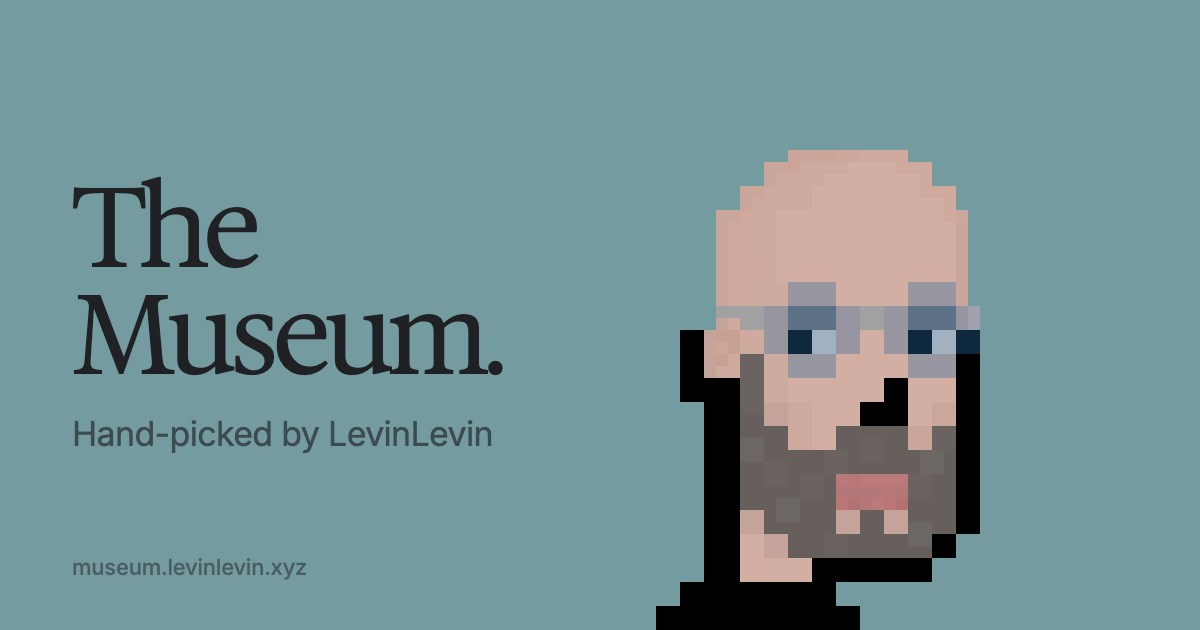
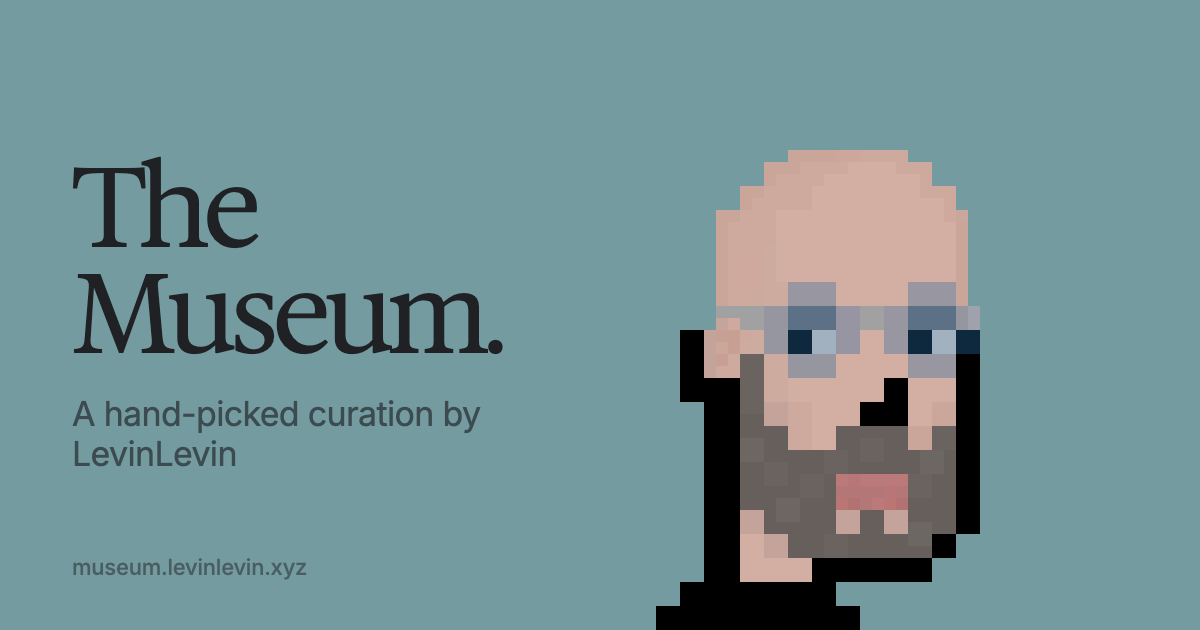
Link preview: "A hand-picked curation by LevinLevin"

Changed region(s): [[0.0617, 0.2413, 0.4317, 0.6032], [0.0617, 0.6333, 0.4008, 0.754]]

diff --git a/index.html b/index.html
@@ -4,19 +4,19 @@
   <meta charset="utf-8">
   <meta name="viewport" content="width=device-width, initial-scale=1, viewport-fit=cover">
   <title>LevinLevin — The Museum</title>
-  <meta name="description" content="A hand-picked collection by LevinLevin.">
+  <meta name="description" content="A hand-picked curation by LevinLevin.">
   <meta name="theme-color" content="#ffffff">
   <meta http-equiv="Content-Security-Policy" content="default-src 'self'; script-src 'self'; style-src 'self'; img-src 'self' data:; media-src 'self'; font-src 'self'; connect-src 'self'; object-src 'none'; base-uri 'none'; form-action 'none'; upgrade-insecure-requests">
   <meta name="referrer" content="no-referrer">
 
   <meta property="og:type" content="website">
   <meta property="og:title" content="LevinLevin — The Museum">
-  <meta property="og:description" content="A hand-picked collection by LevinLevin.">
-  <meta property="og:image" content="https://museum.levinlevin.xyz/og-card.png">
+  <meta property="og:description" content="A hand-picked curation by LevinLevin.">
+  <meta property="og:image" content="https://museum.levinlevin.xyz/og-card.png?v=2">
   <meta property="og:image:width" content="1200">
   <meta property="og:image:height" content="630">
   <meta property="og:image:alt" content="The Museum: LevinLevin's punk">
-  <meta name="twitter:image" content="https://museum.levinlevin.xyz/og-card.png">
+  <meta name="twitter:image" content="https://museum.levinlevin.xyz/og-card.png?v=2">
   <meta property="og:url" content="https://museum.levinlevin.xyz/">
   <link rel="canonical" href="https://museum.levinlevin.xyz/">
   <meta name="twitter:card" content="summary_large_image">

diff --git a/w/ce49d61bb631.html b/w/ce49d61bb631.html
@@ -5,10 +5,10 @@
   <meta name="viewport" content="width=device-width, initial-scale=1">
   <title>PERQUÉ HA PASADO IL MIO AMICO® by PAMILO CEIRONE® — The Museum</title>
   <meta http-equiv="Content-Security-Policy" content="default-src 'none'; img-src 'self'; style-src 'none'; base-uri 'none'; form-action 'none'">
-  <meta name="description" content="PERQUÉ HA PASADO IL MIO AMICO® by PAMILO CEIRONE®, in LevinLevin's hand-picked collection.">
+  <meta name="description" content="PERQUÉ HA PASADO IL MIO AMICO® by PAMILO CEIRONE®, in a hand-picked curation by LevinLevin.">
   <meta property="og:type" content="website">
   <meta property="og:title" content="PERQUÉ HA PASADO IL MIO AMICO® — PAMILO CEIRONE®">
-  <meta property="og:description" content="In LevinLevin's hand-picked collection, The Museum.">
+  <meta property="og:description" content="The Museum: a hand-picked curation by LevinLevin.">
   <meta property="og:url" content="https://museum.levinlevin.xyz/w/ce49d61bb631">
   <meta property="og:image" content="https://museum.levinlevin.xyz/w/ce49d61bb631-503e86a423.jpg">
   <meta property="og:image:width" content="1200">

diff --git a/w/ae8377dcae9b.html b/w/ae8377dcae9b.html
@@ -5,10 +5,10 @@
   <meta name="viewport" content="width=device-width, initial-scale=1">
   <title>The meeting of chance and wonder by Nikita Blanq — The Museum</title>
   <meta http-equiv="Content-Security-Policy" content="default-src 'none'; img-src 'self'; style-src 'none'; base-uri 'none'; form-action 'none'">
-  <meta name="description" content="The meeting of chance and wonder by Nikita Blanq, in LevinLevin's hand-picked collection.">
+  <meta name="description" content="The meeting of chance and wonder by Nikita Blanq, in a hand-picked curation by LevinLevin.">
   <meta property="og:type" content="website">
   <meta property="og:title" content="The meeting of chance and wonder — Nikita Blanq">
-  <meta property="og:description" content="In LevinLevin's hand-picked collection, The Museum.">
+  <meta property="og:description" content="The Museum: a hand-picked curation by LevinLevin.">
   <meta property="og:url" content="https://museum.levinlevin.xyz/w/ae8377dcae9b">
   <meta property="og:image" content="https://museum.levinlevin.xyz/w/ae8377dcae9b-69d3977e8f.jpg">
   <meta property="og:image:width" content="1200">

diff --git a/w/25dff0371e62.html b/w/25dff0371e62.html
@@ -5,10 +5,10 @@
   <meta name="viewport" content="width=device-width, initial-scale=1">
   <title>Attachment to the world by magnetismo, MASKAY — The Museum</title>
   <meta http-equiv="Content-Security-Policy" content="default-src 'none'; img-src 'self'; style-src 'none'; base-uri 'none'; form-action 'none'">
-  <meta name="description" content="Attachment to the world by magnetismo, MASKAY, in LevinLevin's hand-picked collection.">
+  <meta name="description" content="Attachment to the world by magnetismo, MASKAY, in a hand-picked curation by LevinLevin.">
   <meta property="og:type" content="website">
   <meta property="og:title" content="Attachment to the world — magnetismo, MASKAY">
-  <meta property="og:description" content="In LevinLevin's hand-picked collection, The Museum.">
+  <meta property="og:description" content="The Museum: a hand-picked curation by LevinLevin.">
   <meta property="og:url" content="https://museum.levinlevin.xyz/w/25dff0371e62">
   <meta property="og:image" content="https://museum.levinlevin.xyz/w/25dff0371e62-a5dfa1ea1c.jpg">
   <meta property="og:image:width" content="1200">

diff --git a/w/04fdd1fa8b7f.html b/w/04fdd1fa8b7f.html
@@ -5,10 +5,10 @@
   <meta name="viewport" content="width=device-width, initial-scale=1">
   <title>Reterritorialization #115 by stipinpixel — The Museum</title>
   <meta http-equiv="Content-Security-Policy" content="default-src 'none'; img-src 'self'; style-src 'none'; base-uri 'none'; form-action 'none'">
-  <meta name="description" content="Reterritorialization #115 by stipinpixel, in LevinLevin's hand-picked collection.">
+  <meta name="description" content="Reterritorialization #115 by stipinpixel, in a hand-picked curation by LevinLevin.">
   <meta property="og:type" content="website">
   <meta property="og:title" content="Reterritorialization #115 — stipinpixel">
-  <meta property="og:description" content="In LevinLevin's hand-picked collection, The Museum.">
+  <meta property="og:description" content="The Museum: a hand-picked curation by LevinLevin.">
   <meta property="og:url" content="https://museum.levinlevin.xyz/w/04fdd1fa8b7f">
   <meta property="og:image" content="https://museum.levinlevin.xyz/w/04fdd1fa8b7f-b536b8b92c.jpg">
   <meta property="og:image:width" content="1200">

diff --git a/w/69a5e91c1b70.html b/w/69a5e91c1b70.html
@@ -5,10 +5,10 @@
   <meta name="viewport" content="width=device-width, initial-scale=1">
   <title>Reterritorialization #13 by stipinpixel — The Museum</title>
   <meta http-equiv="Content-Security-Policy" content="default-src 'none'; img-src 'self'; style-src 'none'; base-uri 'none'; form-action 'none'">
-  <meta name="description" content="Reterritorialization #13 by stipinpixel, in LevinLevin's hand-picked collection.">
+  <meta name="description" content="Reterritorialization #13 by stipinpixel, in a hand-picked curation by LevinLevin.">
   <meta property="og:type" content="website">
   <meta property="og:title" content="Reterritorialization #13 — stipinpixel">
-  <meta property="og:description" content="In LevinLevin's hand-picked collection, The Museum.">
+  <meta property="og:description" content="The Museum: a hand-picked curation by LevinLevin.">
   <meta property="og:url" content="https://museum.levinlevin.xyz/w/69a5e91c1b70">
   <meta property="og:image" content="https://museum.levinlevin.xyz/w/69a5e91c1b70-ec30304b79.jpg">
   <meta property="og:image:width" content="1200">

diff --git a/w/49862737de27.html b/w/49862737de27.html
@@ -5,10 +5,10 @@
   <meta name="viewport" content="width=device-width, initial-scale=1">
   <title>Hands of A Prophet by Christian Gregor — The Museum</title>
   <meta http-equiv="Content-Security-Policy" content="default-src 'none'; img-src 'self'; style-src 'none'; base-uri 'none'; form-action 'none'">
-  <meta name="description" content="Hands of A Prophet by Christian Gregor, in LevinLevin's hand-picked collection.">
+  <meta name="description" content="Hands of A Prophet by Christian Gregor, in a hand-picked curation by LevinLevin.">
   <meta property="og:type" content="website">
   <meta property="og:title" content="Hands of A Prophet — Christian Gregor">
-  <meta property="og:description" content="In LevinLevin's hand-picked collection, The Museum.">
+  <meta property="og:description" content="The Museum: a hand-picked curation by LevinLevin.">
   <meta property="og:url" content="https://museum.levinlevin.xyz/w/49862737de27">
   <meta property="og:image" content="https://museum.levinlevin.xyz/w/49862737de27-cd7b50d371.jpg">
   <meta property="og:image:width" content="1200">

diff --git a/w/c5e9dfa3d133.html b/w/c5e9dfa3d133.html
@@ -5,10 +5,10 @@
   <meta name="viewport" content="width=device-width, initial-scale=1">
   <title>Reterritorialization #2 by stipinpixel — The Museum</title>
   <meta http-equiv="Content-Security-Policy" content="default-src 'none'; img-src 'self'; style-src 'none'; base-uri 'none'; form-action 'none'">
-  <meta name="description" content="Reterritorialization #2 by stipinpixel, in LevinLevin's hand-picked collection.">
+  <meta name="description" content="Reterritorialization #2 by stipinpixel, in a hand-picked curation by LevinLevin.">
   <meta property="og:type" content="website">
   <meta property="og:title" content="Reterritorialization #2 — stipinpixel">
-  <meta property="og:description" content="In LevinLevin's hand-picked collection, The Museum.">
+  <meta property="og:description" content="The Museum: a hand-picked curation by LevinLevin.">
   <meta property="og:url" content="https://museum.levinlevin.xyz/w/c5e9dfa3d133">
   <meta property="og:image" content="https://museum.levinlevin.xyz/w/c5e9dfa3d133-5a9edccab5.jpg">
   <meta property="og:image:width" content="1200">

diff --git a/w/55d93c923713.html b/w/55d93c923713.html
@@ -5,10 +5,10 @@
   <meta name="viewport" content="width=device-width, initial-scale=1">
   <title>SERVITZIO PLOP!® by PAMILO CEIRONE® — The Museum</title>
   <meta http-equiv="Content-Security-Policy" content="default-src 'none'; img-src 'self'; style-src 'none'; base-uri 'none'; form-action 'none'">
-  <meta name="description" content="SERVITZIO PLOP!® by PAMILO CEIRONE®, in LevinLevin's hand-picked collection.">
+  <meta name="description" content="SERVITZIO PLOP!® by PAMILO CEIRONE®, in a hand-picked curation by LevinLevin.">
   <meta property="og:type" content="website">
   <meta property="og:title" content="SERVITZIO PLOP!® — PAMILO CEIRONE®">
-  <meta property="og:description" content="In LevinLevin's hand-picked collection, The Museum.">
+  <meta property="og:description" content="The Museum: a hand-picked curation by LevinLevin.">
   <meta property="og:url" content="https://museum.levinlevin.xyz/w/55d93c923713">
   <meta property="og:image" content="https://museum.levinlevin.xyz/w/55d93c923713-07678a1234.jpg">
   <meta property="og:image:width" content="1200">

diff --git a/w/1e1facab01cf.html b/w/1e1facab01cf.html
@@ -5,10 +5,10 @@
   <meta name="viewport" content="width=device-width, initial-scale=1">
   <title>Beach Day At the Natives by Artifex — The Museum</title>
   <meta http-equiv="Content-Security-Policy" content="default-src 'none'; img-src 'self'; style-src 'none'; base-uri 'none'; form-action 'none'">
-  <meta name="description" content="Beach Day At the Natives by Artifex, in LevinLevin's hand-picked collection.">
+  <meta name="description" content="Beach Day At the Natives by Artifex, in a hand-picked curation by LevinLevin.">
   <meta property="og:type" content="website">
   <meta property="og:title" content="Beach Day At the Natives — Artifex">
-  <meta property="og:description" content="In LevinLevin's hand-picked collection, The Museum.">
+  <meta property="og:description" content="The Museum: a hand-picked curation by LevinLevin.">
   <meta property="og:url" content="https://museum.levinlevin.xyz/w/1e1facab01cf">
   <meta property="og:image" content="https://museum.levinlevin.xyz/w/1e1facab01cf-98ac2c45d1.jpg">
   <meta property="og:image:width" content="1200">

diff --git a/w/bd508a892d5e.html b/w/bd508a892d5e.html
@@ -5,10 +5,10 @@
   <meta name="viewport" content="width=device-width, initial-scale=1">
   <title>CONTEMPLATING DEATH: MUHJU by Muhju — The Museum</title>
   <meta http-equiv="Content-Security-Policy" content="default-src 'none'; img-src 'self'; style-src 'none'; base-uri 'none'; form-action 'none'">
-  <meta name="description" content="CONTEMPLATING DEATH: MUHJU by Muhju, in LevinLevin's hand-picked collection.">
+  <meta name="description" content="CONTEMPLATING DEATH: MUHJU by Muhju, in a hand-picked curation by LevinLevin.">
   <meta property="og:type" content="website">
   <meta property="og:title" content="CONTEMPLATING DEATH: MUHJU — Muhju">
-  <meta property="og:description" content="In LevinLevin's hand-picked collection, The Museum.">
+  <meta property="og:description" content="The Museum: a hand-picked curation by LevinLevin.">
   <meta property="og:url" content="https://museum.levinlevin.xyz/w/bd508a892d5e">
   <meta property="og:image" content="https://museum.levinlevin.xyz/w/bd508a892d5e-f346bbb2b9.jpg">
   <meta property="og:image:width" content="1200">

diff --git a/w/12b66fc3f184.html b/w/12b66fc3f184.html
@@ -5,10 +5,10 @@
   <meta name="viewport" content="width=device-width, initial-scale=1">
   <title>ABC 123 PAM!® by PAMILO CEIRONE® — The Museum</title>
   <meta http-equiv="Content-Security-Policy" content="default-src 'none'; img-src 'self'; style-src 'none'; base-uri 'none'; form-action 'none'">
-  <meta name="description" content="ABC 123 PAM!® by PAMILO CEIRONE®, in LevinLevin's hand-picked collection.">
+  <meta name="description" content="ABC 123 PAM!® by PAMILO CEIRONE®, in a hand-picked curation by LevinLevin.">
   <meta property="og:type" content="website">
   <meta property="og:title" content="ABC 123 PAM!® — PAMILO CEIRONE®">
-  <meta property="og:description" content="In LevinLevin's hand-picked collection, The Museum.">
+  <meta property="og:description" content="The Museum: a hand-picked curation by LevinLevin.">
   <meta property="og:url" content="https://museum.levinlevin.xyz/w/12b66fc3f184">
   <meta property="og:image" content="https://museum.levinlevin.xyz/w/12b66fc3f184-5fc2c795e3.jpg">
   <meta property="og:image:width" content="1200">
